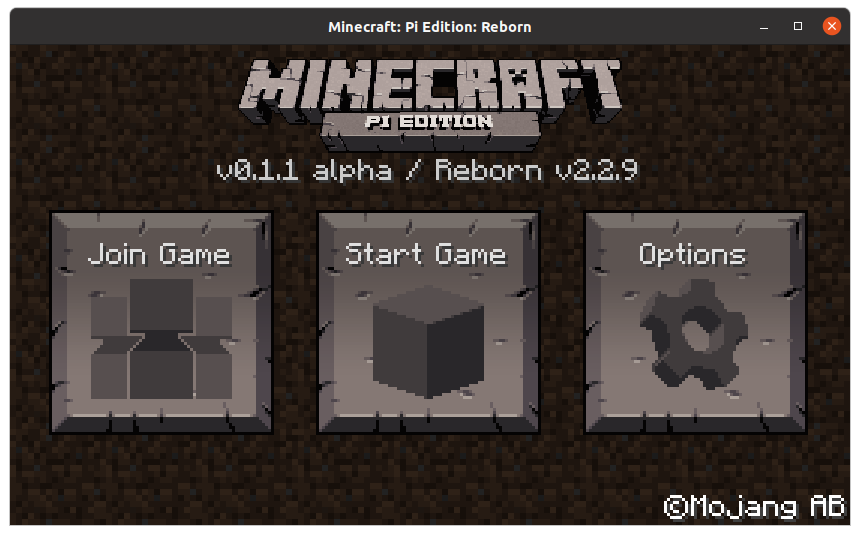
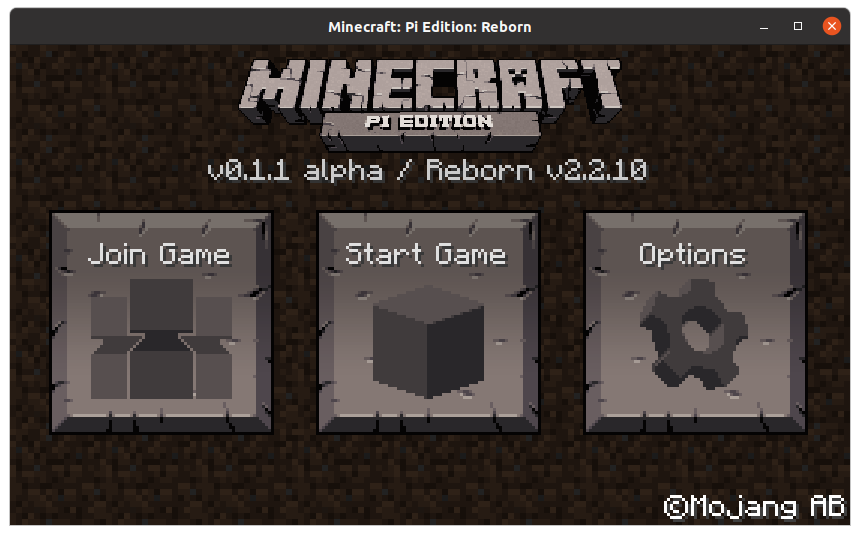
2.2.10

Changed region(s): [[0.2419, 0.2991, 0.7558, 0.3589]]

diff --git a/mods/src/creative/creative.cpp b/mods/src/creative/creative.cpp
@@ -86,8 +86,7 @@ void init_creative() {
         unsigned char inv_creative_check_r3_patch[4] = {0x03, 0x00, 0x53, 0xe1}; // "cmp r3, r3"
         patch((void *) 0x923c0, inv_creative_check_r3_patch);
         patch((void *) 0x92828, nop_patch);
-        unsigned char inv_creative_check_r1_patch[4] = {0x01, 0x00, 0x51, 0xe1}; // "cmp r1, r1"
-        patch((void *) 0x9282c, inv_creative_check_r1_patch);
+        patch((void *) 0x92830, nop_patch);
         // Display Slot Count
         patch((void *) 0x1e3f4, nop_patch);
         unsigned char slot_count_patch[4] = {0x18, 0x00, 0x00, 0xea}; // "b 0x27110"

diff --git a/docs/CHANGELOG.md b/docs/CHANGELOG.md
@@ -1,5 +1,8 @@
 # Changelog
 
+**2.2.10**
+* Fix Bug With Picking Up Items In "Remove Creative Mode Restrictions" Mode
+
 **2.2.9**
 * Fix String Sanitization
 * Store Files In `/usr/lib`
